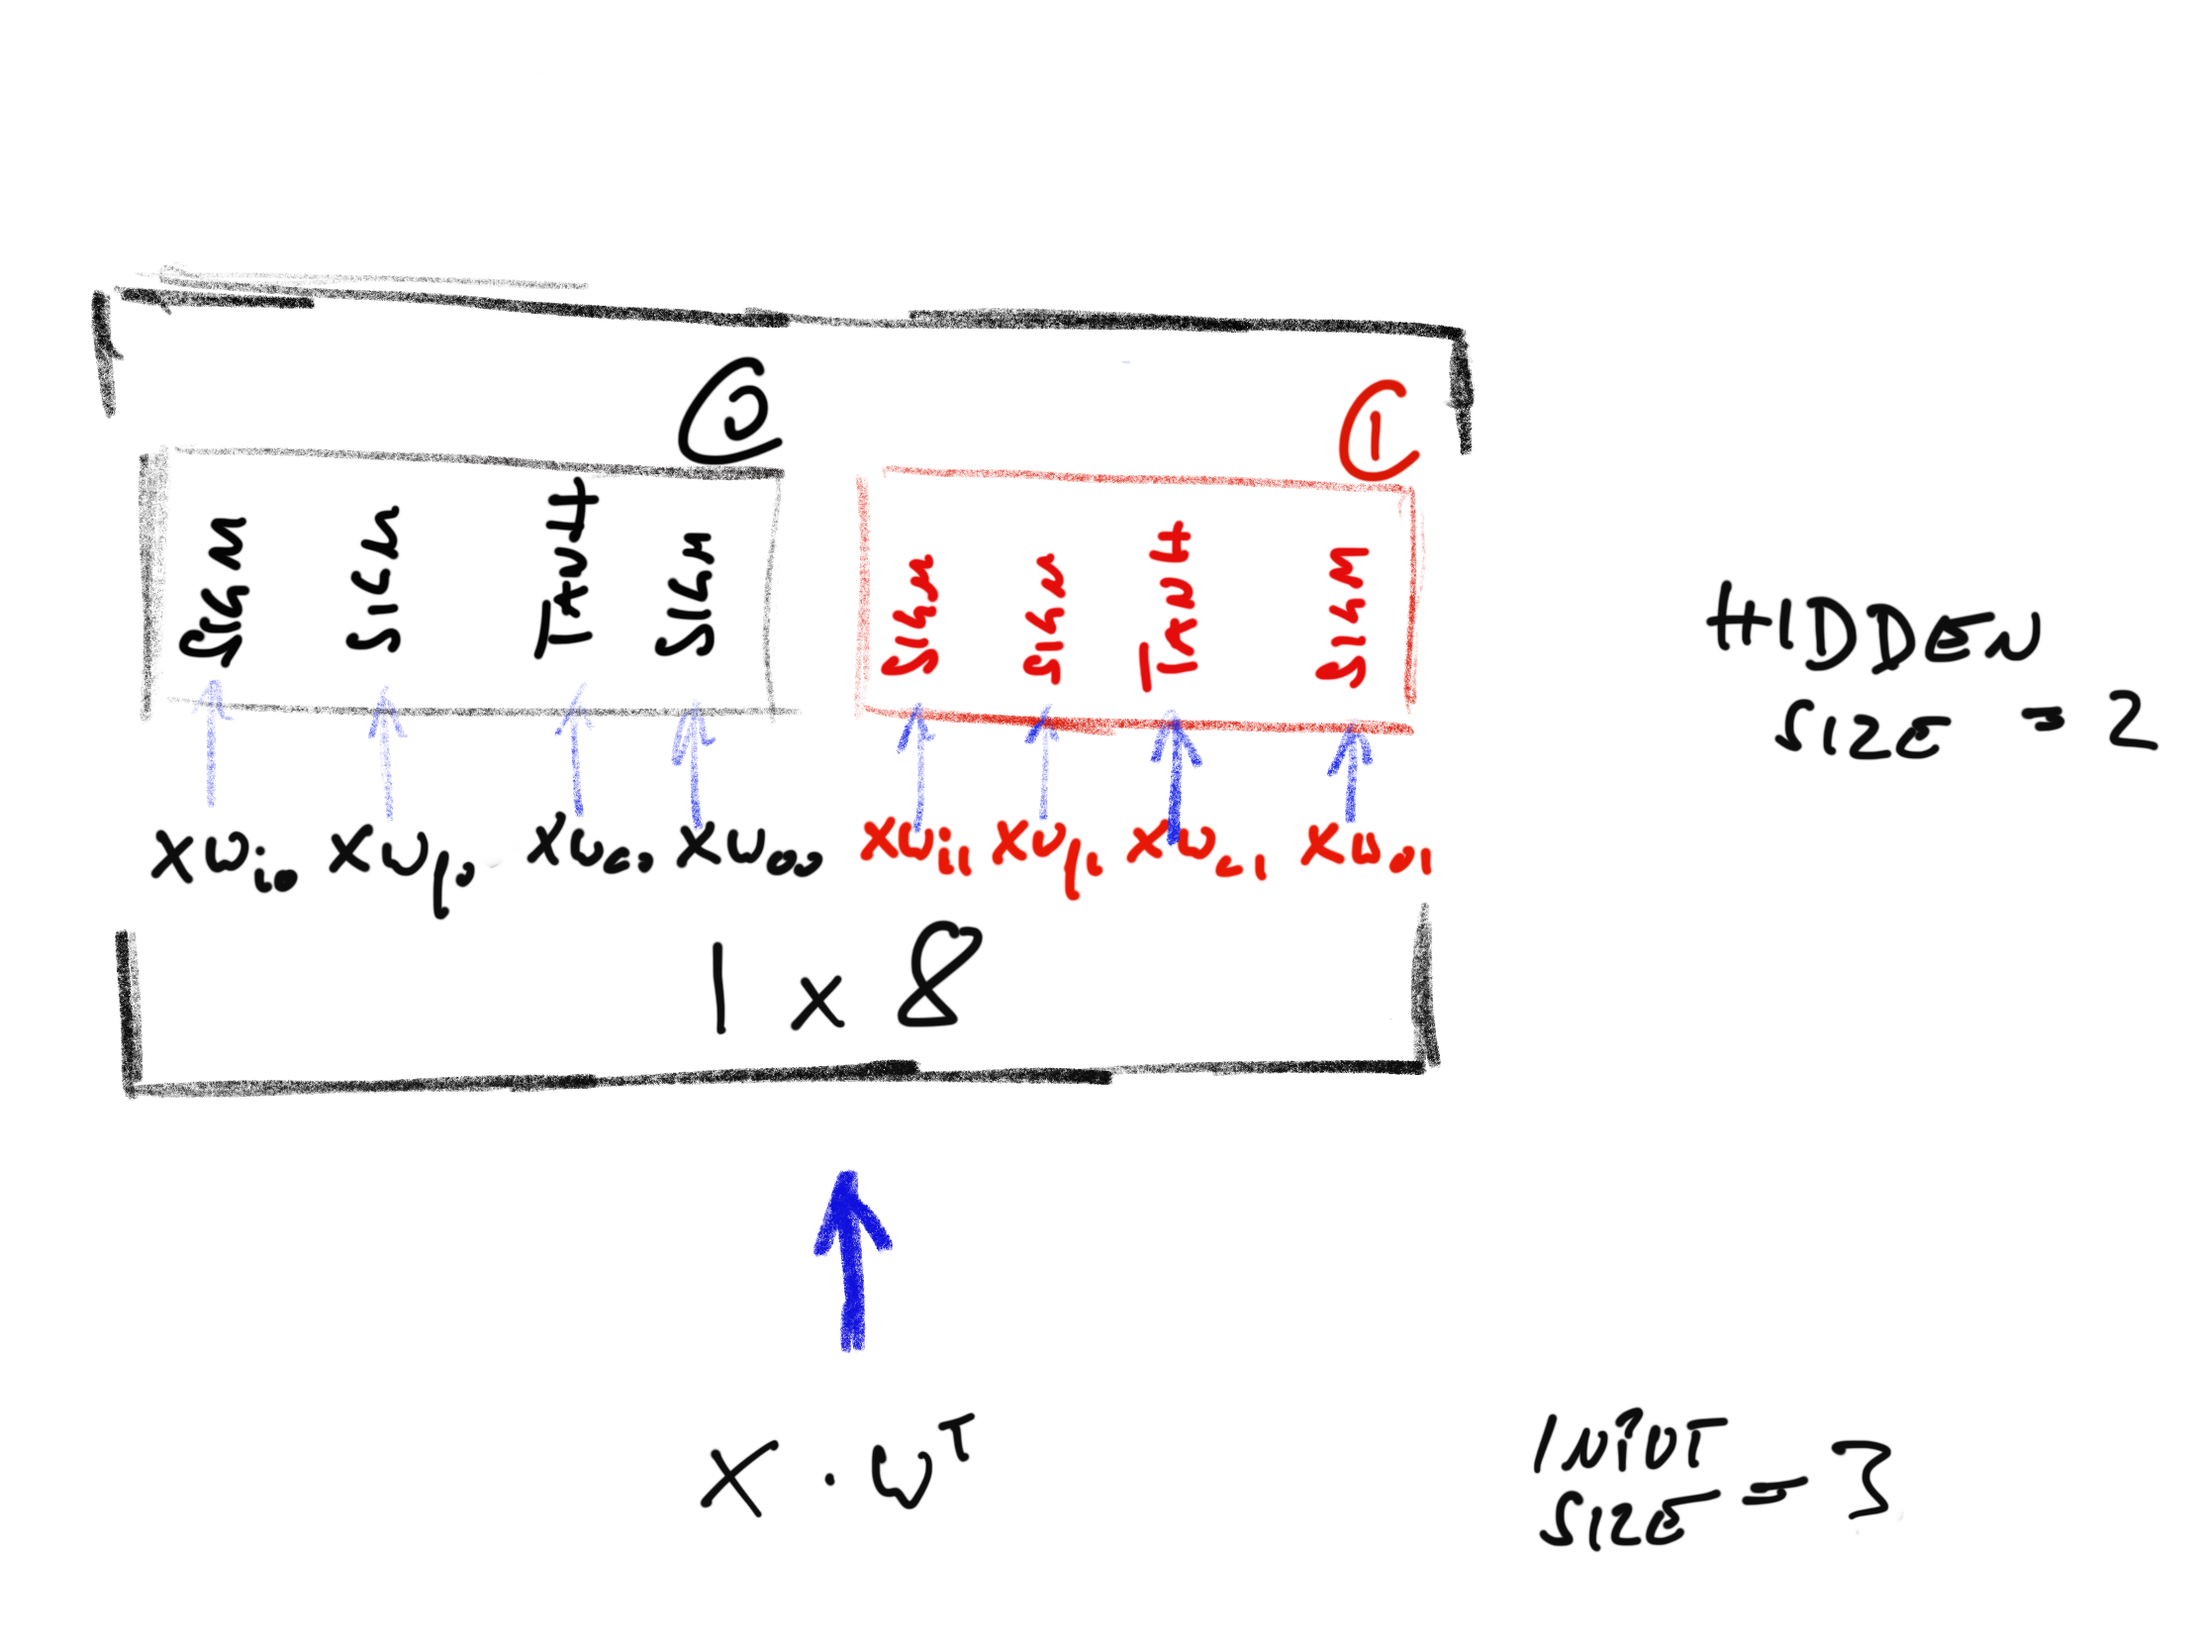
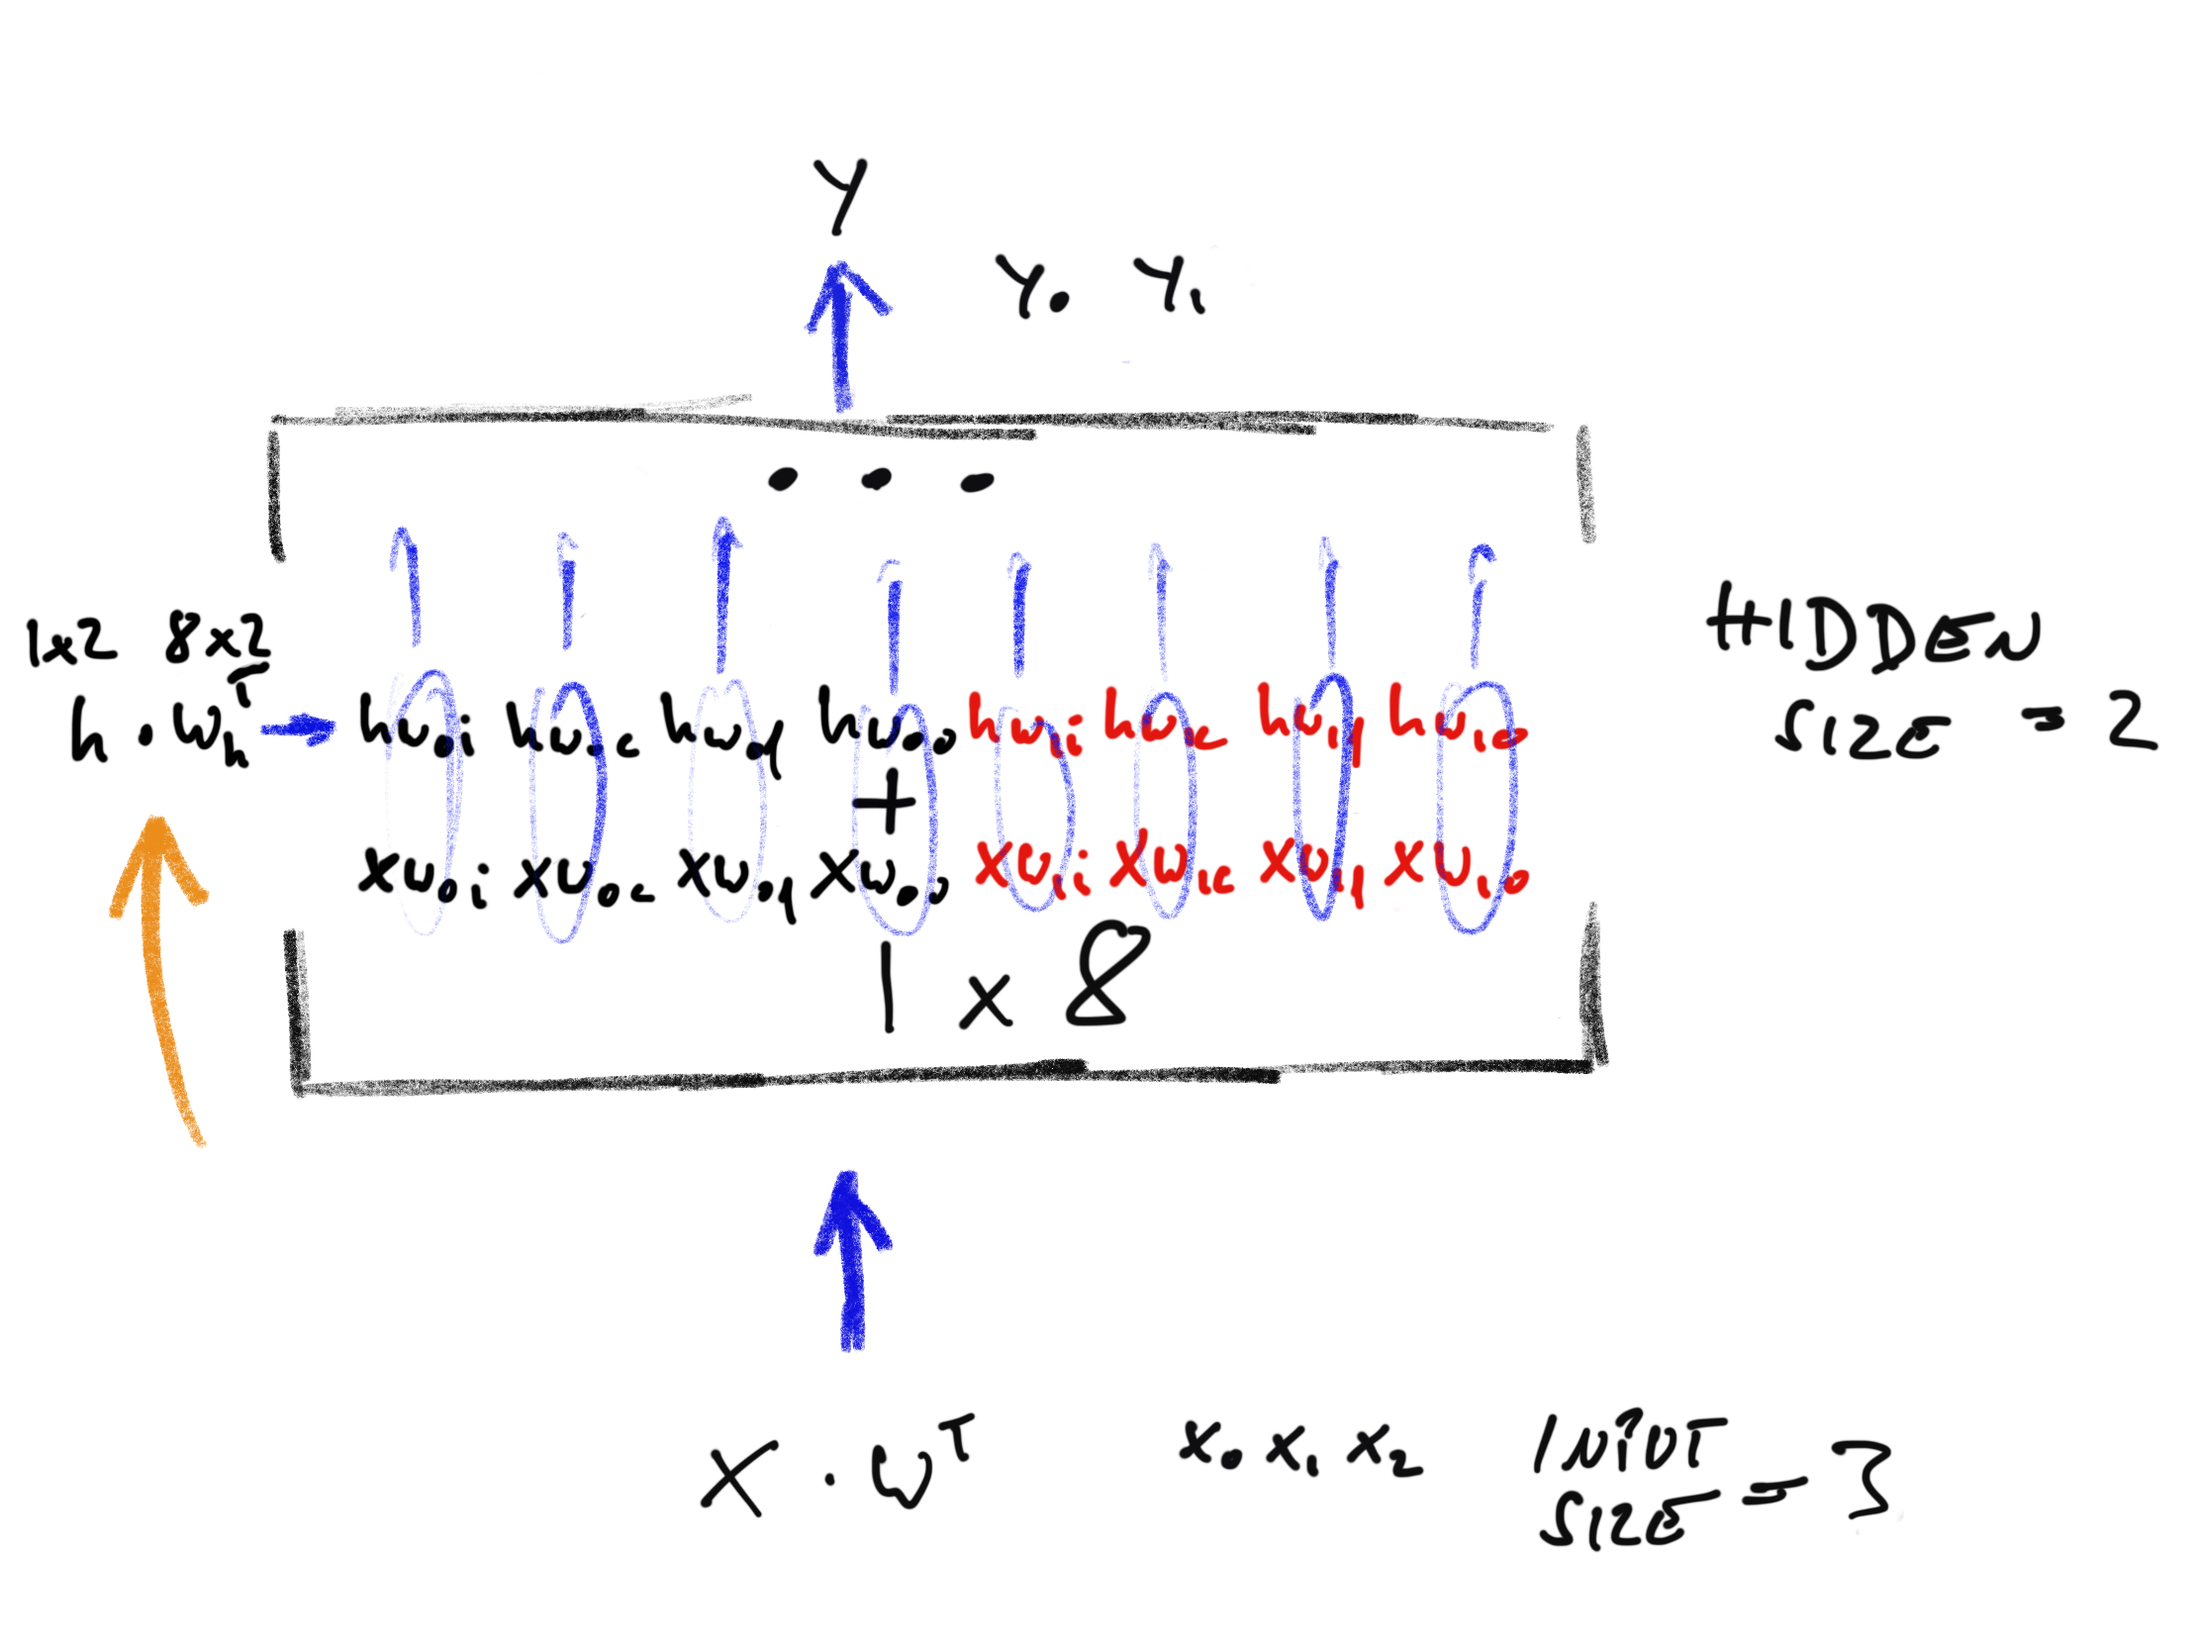
figure complete

Changed region(s): [[0.0, 0.1559, 0.7446, 0.6859], [0.5274, 0.8417, 0.6515, 0.9041], [0.3723, 0.0935, 0.4033, 0.1247]]

diff --git a/_posts/2017-12-02-pytorch-lstm-explained.md b/_posts/2017-12-02-pytorch-lstm-explained.md
@@ -39,5 +39,19 @@ Now this is where I find the naming of `LSTMCell` a little misleading for people
 
 <div class="fig figcenter">
   <img src="/assets/LSTMCell-inside-input.png" width="60%">
-  <div class="figcaption">The hidden_size of an LSTMCell stands for the number of LSTM units.</div>
+  <div class="figcaption">The hidden_size of an LSTMCell stands for the number of LSTM units and thus the size of the output matrix.</div>
+</div>
+
+The weights for the hidden state as well as the hidden state are passed as inputs to the LSTMCell function from the LSTMCek type. Each LSTM unit implements the gating mechanism, which uses a cell state that is also provided as input, and reflects the number of units.
+
+<div class="fig figcenter">
+  <img src="/assets/LSTMCell-inside-output.png" width="60%">
+  <div class="figcaption">The output is a effectively a concatenation of all LSTM units, but implemented as matrix multiplication and independent function evals on elements.</div>
+</div>
+
+For a batch size larger than one, all matrices (input, hidden state/output, cell state) increase along the first axis (ie more rows), but the weight matrices remain the same size - they are being multiplied into all samples, thus the loss of the weights reflects an average over the batch size.
+
+<div class="fig figcenter">
+  <img src="/assets/LSTMCell-inside-output-fit.png" width="60%">
+  <div class="figcaption">The output includes the updated cell state along with the target hidden state, to be passed to the algorithm along with the next input in the sequence.</div>
 </div>
